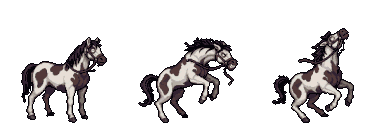
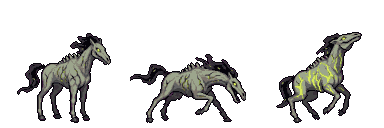
V3 R290: crazy_horse monster_large approved (pass V redesign, with nits); retire.py --move-rig crazy_horse

Changed region(s): [[0.3125, 0.2812, 0.6562, 0.9688], [0.0312, 0.25, 0.3125, 0.9688], [0.6875, 0.2188, 0.9688, 0.9688]]

diff --git a/docs/ROSTER_LOG.md b/docs/ROSTER_LOG.md
@@ -678,7 +678,17 @@ number). Written as a literal into `budget.json` `attempts_before`, `pass R fix.
 pinned by `selftest_passv.py`. Pass V: 50 images, only the 7 redesigned ids and their `only_sheets`, at most 3 per
 sheet (fresh counts from 367).
 
-Images used: 0 of 50 (ledger guard: 367 - 367).
+Images used: 1 of 50 (ledger guard: 368 - 367).
+
+### Pass V attempts (V3, generator, main checkout `roster`)
+
+Main-checkout `selftest.py` ALL PASSED (1022 ok checks) at 674857b (V-gen) before the first paid request. Each id is
+archived with `retire.py` (commit quoted) before its first request; `--move-rig` (and for a boss `--prune`) runs in the
+approval commit.
+
+| # | Sheet (seed) | n | Measured result | Decision |
+|---|---|---|---|---|
+| R290 | crazy_horse/monster_large (1234, key `8bc875977bdf6a8fbe2280ad`, `--retry`, pass-V attempt 1 of 3; archive 04c0539) | 1 | The plan 3.1 design: a gaunt ash-grey horse, a ridge of bone spines on neck and back, yellow-green glowing cracks (dim in the idle, flaring in the hurt), a long narrow skull-like head with one bright yellow-green eye spot, a black smoke mane and tail, thin legs, dark hooves; facing right in every cell. Heights 90 / 69 / 91 (large band 96-120; idle inside the -10 % tolerance), feet on row 122, 128 px cells, x 17-110 / 2-117 / 20-105, no border pixels, one piece per cell, binary alpha, 16 colours with the outline ink, `pose_diff` 0.94 / 0.58. `flat_edges` names the attack's upper jaw tip (x 117, y 96-98): the raw tip ends there with mid-grey ink, nothing sliced (checked against the raw). Attack = a low forward lunge with the long jaw open; hurt = head tossed up, cracks flaring. Sibling check vs `nightmare` (glossy black, blue flame mane and hooves) and the archived piebald `crazy_horse_v1`: clearly different creatures. Nits: the attack is a long low lunge (69 px, `height_ok` false); the hurt lifts the forelegs (a half rear, top row 32 vs idle 33, no height gain) instead of "all four hooves on the ground"; the small floating embers of the raw are dropped by the cutter (mane embers mostly gone) | **self-approved with nits**; `retire.py --move-rig crazy_horse` in the same commit |
 
 ### V1 framework (framework owner, `v-fw`, 2026-11-16, 0 images)
 
